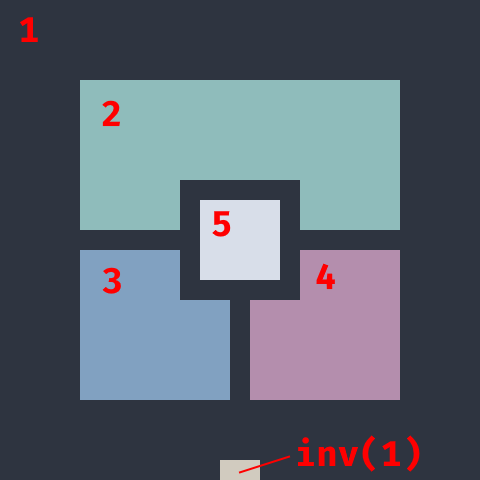
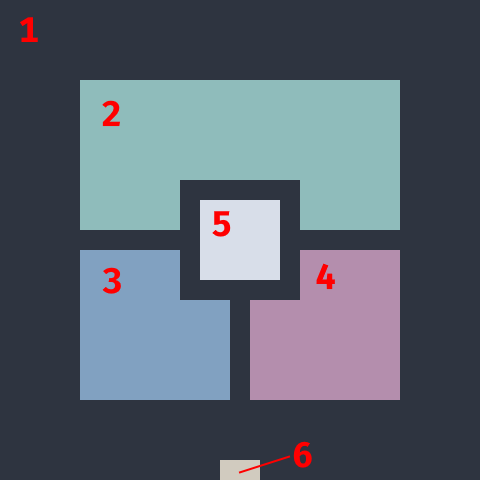
Update to use uuid.wacton.xyz

Changed region(s): [[0.5938, 0.9062, 0.875, 1.0]]

diff --git a/example/cloudflare-worker.js b/example/cloudflare-worker.js
@@ -1,12 +1,21 @@
-// this standalone JS can used in cloudflare workers to return embeddable SVG
+// standalone JS used in cloudflare workers to return embeddable SVG
 
 export default {
     fetch: async function (request, env, ctx) {
         const url = new URL(request.url)
-        const uuid = url.pathname.substring(1)
+        const route = url.pathname.substring(1)
+
+        // fallback to default cloudflare handling in certain cases (no route, or trying to serve files)
+        // which should allow the request to continue on to the actual server, instead of being intercepted by this worker
+        if (route === '' || route.includes('.')) {
+            return fetch(request)
+        }
+
+        const uuid = route
         console.info({ message: 'UUID glyph requested', uuid: uuid });
 
         if (!isValidV4(uuid)) {
+            console.info({ message: 'Request is not a valid v4 UUID', uuid: uuid });
             return new Response(`${uuid} is not a valid v4 UUID`, {status: 400})
         }
 
@@ -26,19 +35,20 @@ function isValidV4(uuid) {
 function createSvg(uuid) {
     const colours = getColours(uuid);
     const rotation = getRotation(uuid);
+
     return `
-        <svg xmlns="http://www.w3.org/2000/svg" viewBox="0 0 480 480">
-            <g transform="rotate(${rotation} 240 240)">
-                <rect fill="${colours[0]}" x="0" y="0" width="100%" height="100%" />
-                <rect fill="${colours[1]}" x="80" y="80" width="320" height="150" />
-                <rect fill="${colours[2]}" x="80" y="250" width="150" height="150" />
-                <rect fill="${colours[3]}" x="250" y="250" width="150" height="150" />
-                <rect fill="${colours[0]}" x="180" y="180" width="120" height="120" />
-                <rect fill="${colours[4]}" x="200" y="200" width="80" height="80" />
-                <rect fill="${colours[5]}" x="220" y="460" width="40" height="20" />
-            </g>
-        </svg>
-    `;
+    <svg xmlns="http://www.w3.org/2000/svg" viewBox="0 0 480 480">
+        <g transform="rotate(${rotation} 240 240)">
+            <rect fill="${colours[0]}" x="0" y="0" width="100%" height="100%" />
+            <rect fill="${colours[1]}" x="80" y="80" width="320" height="150" />
+            <rect fill="${colours[2]}" x="80" y="250" width="150" height="150" />
+            <rect fill="${colours[3]}" x="250" y="250" width="150" height="150" />
+            <rect fill="${colours[0]}" x="180" y="180" width="120" height="120" />
+            <rect fill="${colours[4]}" x="200" y="200" width="80" height="80" />
+            <rect fill="${colours[5]}" x="220" y="460" width="40" height="20" />
+        </g>
+    </svg>
+  `;
 }
 
 function getColours(uuid) {

diff --git a/README.md b/README.md
@@ -5,16 +5,16 @@ Display a unique glyph for each of the 5,316,911,983,139,663,491,615,228,241,121
 
 Choose a UUID based on how nice it looks!
 
-Prototype demonstration available at https://waacton.github.io/Uuid/
+Prototype demonstration available at https://uuid.wacton.xyz
 
 ## Examples
 
-| UUID                                   | Glyph                                                                                                                              |
-|----------------------------------------|------------------------------------------------------------------------------------------------------------------------------------|
-| `2e34408f-bcbb-481a-81c1-b48eadd8dee9` | ![Glyph of 2e34408f-bcbb-481a-81c1-b48eadd8dee9](https://uuid.waacton-cloudflare.workers.dev/2e34408f-bcbb-481a-81c1-b48eadd8dee9) |
-| `eceff4bf-616a-4ebc-bb8b-88c0d04c566a` | ![Glyph of eceff4bf-616a-4ebc-bb8b-88c0d04c566a](https://uuid.waacton-cloudflare.workers.dev/eceff4bf-616a-4ebc-bb8b-88c0d04c566a) |
-| `40404640-e8ff-4e8e-a846-e840ffe8e8ff` | ![Glyph of 40404640-e8ff-4e8e-a846-e840ffe8e8ff](https://uuid.waacton-cloudflare.workers.dev/40404640-e8ff-4e8e-a846-e840ffe8e8ff) |
-| `ff1493d0-71ff-400e-97ff-7fffd474b3ff` | ![Glyph of ff1493d0-71ff-400e-97ff-7fffd474b3ff](https://uuid.waacton-cloudflare.workers.dev/ff1493d0-71ff-400e-97ff-7fffd474b3ff) |
+| UUID                                   | Glyph                                                                                                          |
+|----------------------------------------|----------------------------------------------------------------------------------------------------------------|
+| `2e34408f-bcbb-481a-81c1-b48eadd8dee9` | ![Glyph of 2e34408f-bcbb-481a-81c1-b48eadd8dee9](https://uuid.wacton.xyz/2e34408f-bcbb-481a-81c1-b48eadd8dee9) |
+| `eceff4bf-616a-4ebc-bb8b-88c0d04c566a` | ![Glyph of eceff4bf-616a-4ebc-bb8b-88c0d04c566a](https://uuid.wacton.xyz/eceff4bf-616a-4ebc-bb8b-88c0d04c566a) |
+| `40404640-e8ff-4e8e-a846-e840ffe8e8ff` | ![Glyph of 40404640-e8ff-4e8e-a846-e840ffe8e8ff](https://uuid.wacton.xyz/40404640-e8ff-4e8e-a846-e840ffe8e8ff) |
+| `ff1493d0-71ff-400e-97ff-7fffd474b3ff` | ![Glyph of ff1493d0-71ff-400e-97ff-7fffd474b3ff](https://uuid.wacton.xyz/ff1493d0-71ff-400e-97ff-7fffd474b3ff) |
 
 ## Specification 1.0
 
@@ -27,6 +27,7 @@ The example in this section uses `2e34408f-bcbb-481a-81c1-b48eadd8dee9`.
 | Colour 3 | Concatenate characters 15, 16, 17, 20, 21, 22                | `81a1c1` |
 | Colour 4 | Concatenate characters 24, 25, 26, 27, 28, 29                | `b48ead` |
 | Colour 5 | Concatenate characters 30, 31, 32, 33, 34, 35                | `d8dee9` |
+| Colour 6 | Inverse of Colour 1                                          | `d1cbbf` |
 | Rotation | Character 19: `8` = 0° · `9` = 90° · `a` = 180° · `b` = 270° | `8` = 0° |
 
 Characters 8, 13, 18, 23 are ignored; they are `-` delimiters that do not change.
